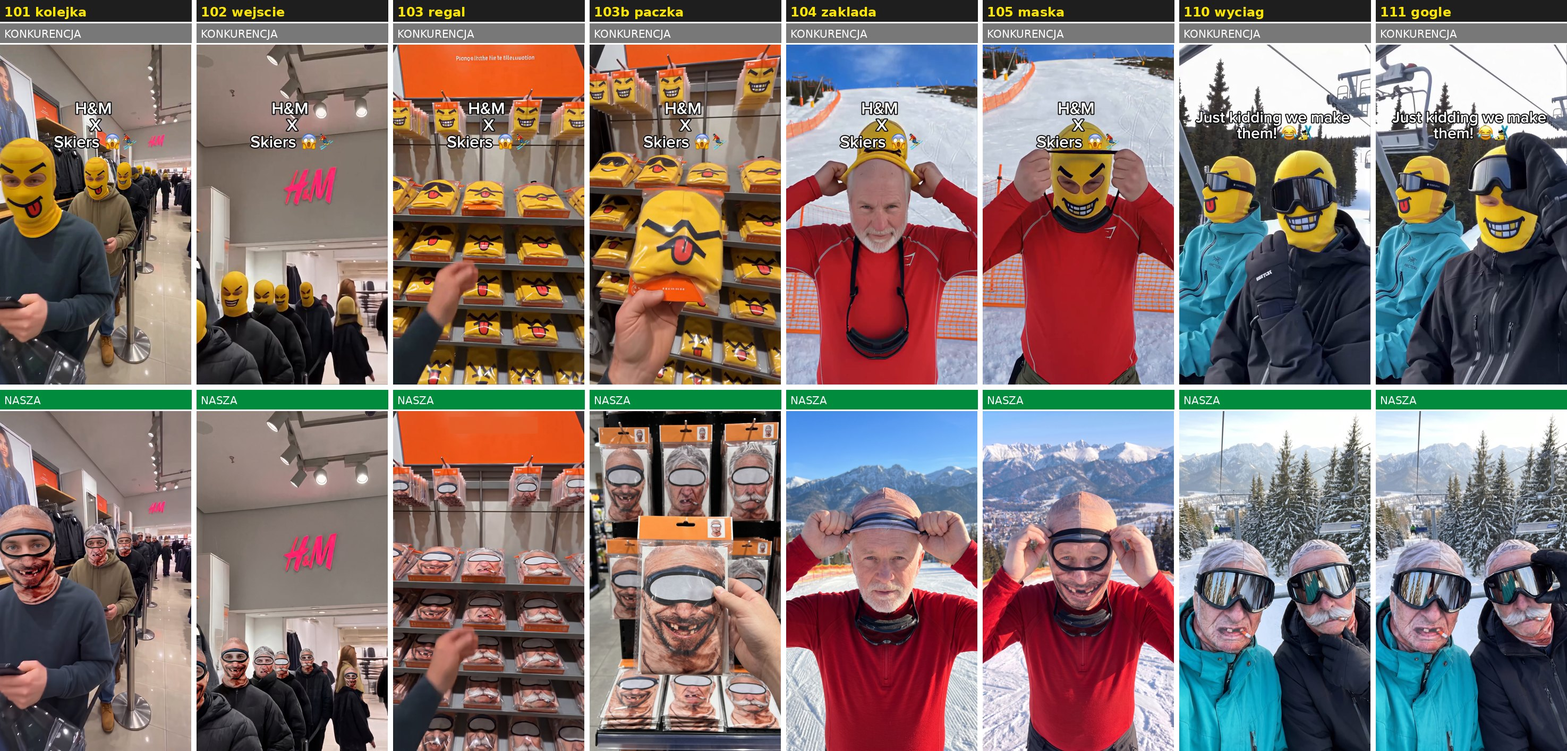
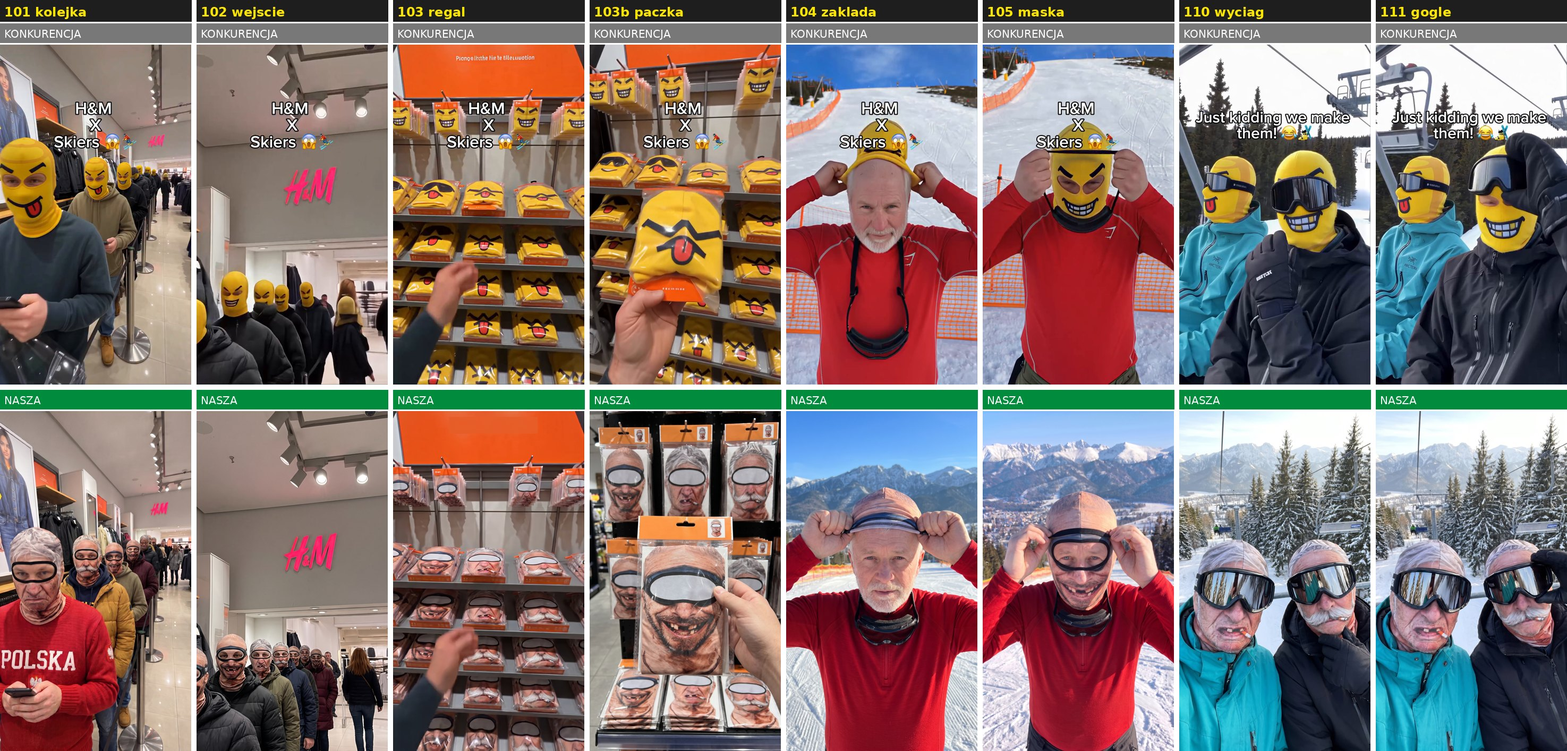
Projekt 3: klatki v2 (101, 102 poprawione)
Claude-Session: https://claude.ai/code/session_01CjMqKH8kTrxCHLeTiEBgfX

Changed region(s): [[0.0, 0.529, 0.2495, 1.0]]

diff --git a/docs/projekty/kominiarki-sklep-x-narciarze/STAN.md b/docs/projekty/kominiarki-sklep-x-narciarze/STAN.md
@@ -37,8 +37,8 @@ Ramka P3-1: `3458764689928563320` (y = 10200).
 ## Klatki v1 (Nano Banana Pro, 24 kr z poprawkami) – `klatki_v1.jpg`
 | Klatka | Job |
 |---|---|
-| 101 kolejka | `1d260be7-6937-4c74-b01e-1ebe2011b693` |
-| 102 wejście | `9c008182-78dc-4dc4-8be4-761df77d5e64` |
+| 101 kolejka (v2: sweter POLSKA, prawdziwe oczy) | `77da8000-823f-49d1-871d-7e00479864dc` |
+| 102 wejście (v2: światło, oczy) | `c1a51c16-3cbf-4579-a8bb-ea3ad60552a4` |
 | 103 regał | `03c8a503-bd39-46e0-b873-e05e2247daec` |
 | 103b paczka | `4b867949-c478-446b-9a0c-3cfa2439d062` |
 | 104 zakłada (wzór A) | `f58da2e8-0a9e-4f63-a453-c97f070fe6a6` |
@@ -61,3 +61,4 @@ Ramka P3-1: `3458764689928563320` (y = 10200).
 
 - Do zrobienia przed wideo: w 105 tło różni się od 104 i trzeba je wyrównać.
 - Miro: ramka P3-2 `3458764689940976300`.
+- Klatki v2: poprawione 101 i 102 (realizm, światło, oczy, stroje). Klatki kosztowały łącznie 32 kr.
